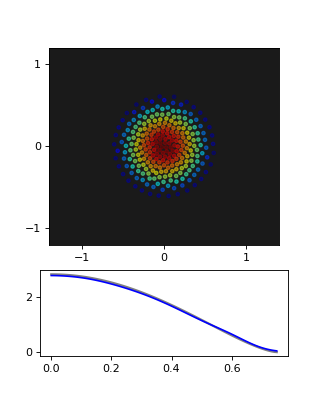
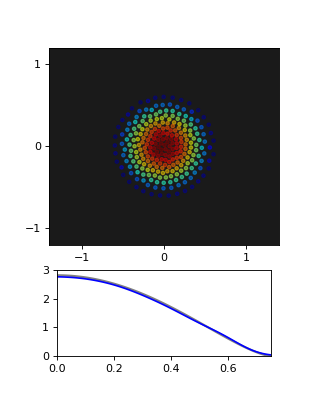
finalized 01_toystar.py

diff --git a/01_toystar.py b/01_toystar.py
@@ -25,11 +25,8 @@ viscosity = 1 # damping
 lmbda_2d = 2*eq_state_const*np.pi**(-1/polytropic_idx) * ( ( (M*(1+polytropic_idx)) / (R**2) )**(1 + 1/polytropic_idx) ) / M
 lmbda_3d = 2*eq_state_const*(1+polytropic_idx)*np.pi**(-3/(2*polytropic_idx)) * (M*gamma(5/2+polytropic_idx)/R**3/gamma(1+polytropic_idx))**(1/polytropic_idx) / R**2
 
-#t = 0      # current time of the simulation
 tEnd = 12
 dt = 0.005
-
-#dt = 0.005#0.01
 
 configs = [
     (2, 16, lmbda_2d),
@@ -73,10 +70,14 @@ for spatial_dim, particle_dim, lmbda in configs:
         update_pos_vel_halfstep[bpg, tpb](d_pos, d_vel, d_dV, dt)
         calc_density[bpg, tpb](d_pos[:,:,0,:], particle_mass, smoothing_length, d_rho)
 
-        get_new_smoothing_lengths(d_pos[:,:,0,:], x, y, particle_mass, 3.0, tpb, bpg, n_iter=30)
+        get_new_smoothing_lengths(d_pos[:,:,0,:], x, y, particle_mass, 3.0, tpb, bpg, n_iter=15)
         smoothing_length = x[:,:,1]
-        smoothing_length_y_cpu = y[:,:,1].copy_to_host()
-        assert np.all(np.abs(smoothing_length_y_cpu) < 0.001 * R)
+        #smoothing_length_y_cpu = y[:,:,1].copy_to_host()
+        #assert np.all(np.abs(smoothing_length_y_cpu) < 0.001 * R)
+
+        x_cpu = x.copy_to_host()
+        delta_ratio = np.max(np.abs(x_cpu[:,:,2] - x_cpu[:,:,0]) / h_init)
+        assert np.all(delta_ratio < 0.02 * h_init)
         
 
         calc_dv_toystar[bpg, tpb](d_pos[:,:,0,:], d_vel[:,:,0,:], particle_mass, smoothing_length, eq_state_const, polytropic_idx, lmbda, viscosity, d_rho, d_dV)
@@ -94,5 +95,10 @@ for spatial_dim, particle_dim, lmbda in configs:
         '''
         imgs.append(get_img(all_pos[:,:,i], all_rho[:,i], R, polytropic_idx, eq_state_const, h_init, particle_mass, lmbda))
 
-    path = os.path.join(os.path.dirname(__file__), f'figures/01_toystar/toystar_{spatial_dim}d.gif')
-    imgs[0].save(path, save_all=True, append_images=imgs[1:], duration=20, loop=0)
+    gif_path = os.path.join(os.path.dirname(__file__), f'figures/01_toystar/toystar_{spatial_dim}d.gif')
+    imgs[0].save(gif_path, save_all=True, append_images=imgs[1:], duration=20, loop=0)
+
+    png_path = os.path.join(os.path.dirname(__file__), f'figures/01_toystar/toystar_{spatial_dim}d.png')
+    fig = plot_frame(all_pos[:,:,-1], all_rho[:,-1], R, polytropic_idx, eq_state_const, h_init, particle_mass, lmbda, colormap='jet')
+    plt.savefig(png_path)
+    plt.close(fig)

diff --git a/pmocz_functions.py b/pmocz_functions.py
@@ -17,7 +17,7 @@ def get_img(pos, dens, R, polytropic_idx, eq_state_const, h, particle_mass, lmbd
     return img
 
 
-def plot_frame(pos, dens, R, polytropic_idx, eq_state_const, h, particle_mass, lmbda):#, fig_name):
+def plot_frame(pos, dens, R, polytropic_idx, eq_state_const, h, particle_mass, lmbda, colormap='autumn'):
     rr = np.zeros((100,pos.shape[1]))
     rlin = np.linspace(0,R,100)
     rr[:,0] =rlin
@@ -40,7 +40,8 @@ def plot_frame(pos, dens, R, polytropic_idx, eq_state_const, h, particle_mass, l
     #cval = np.minimum((cval-3)/3,1).flatten()
 
     #plt.scatter(pos[:,0],pos[:,1], c=cval, cmap=plt.cm.jet, s=10, alpha=0.5)
-    plt.scatter(pos[:,0],pos[:,1], c=cval, cmap=plt.cm.autumn, s=10, alpha=0.5)
+    cmap = plt.cm.autumn if colormap == 'autumn' else plt.cm.jet
+    plt.scatter(pos[:,0],pos[:,1], c=cval, cmap=cmap, s=10, alpha=0.5)
     ax1.set(xlim=(-1.4 * (R * 4/3), 1.4 * (R * 4/3)), ylim=(-1.2 * (R * 4/3), 1.2 * (R * 4/3)))
     ax1.set_aspect('equal', 'box')
     ax1.set_xticks([-(R * 4/3),0,(R * 4/3)])
@@ -50,8 +51,8 @@ def plot_frame(pos, dens, R, polytropic_idx, eq_state_const, h, particle_mass, l
                 
     plt.sca(ax2)
     plt.cla()
-    #ax2.set(xlim=(0, R), ylim=(0, 3e9))
-    #ax2.set_aspect(0.1)
+    ax2.set(xlim=(0, R), ylim=(0, 3 * R*4/3))
+    ax2.set_aspect(0.1)
     plt.plot(rlin, rho_analytic, color='gray', linewidth=2)
     rho_radial = density( pos, h, particle_mass, pos.shape[1], rr=rr )
     plt.plot(rlin, rho_radial, color='blue')

diff --git a/tests.py b/tests.py
@@ -214,10 +214,6 @@ def test_zeta(setup_data, spatial_dim):
         zeta_cpu = zeta.copy_to_host()
         sign_test_vals[:,:,i] = zeta_cpu
 
-    #plt.scatter(all_hvals[:,19,21], sign_test_vals[19, 21])
-    #plt.show()
-
-
     asign = np.sign(sign_test_vals)
     sign_change = ((np.roll(asign, 1) - asign) != 0).astype(int)[:,:,1:]
 
@@ -240,13 +236,17 @@ def test_newton_method(setup_data, spatial_dim):
 
     all_hvals = np.linspace(x[:,:,0], x[:,:,2], n_samples).astype('f4')
 
-
     pos_gpu = pos_2d if spatial_dim == 2 else pos_3d
     
     get_new_smoothing_lengths(pos_gpu, x, y, particle_mass, kernel_radius, tpb, bpg, n_iter=30)
 
-    midpt_y_cpu = y.copy_to_host()[:,:,1]
-    midpt_x_cpu = x.copy_to_host()[:,:,1]
+    #midpt_y_cpu = y.copy_to_host()[:,:,1]
+    #midpt_x_cpu = x.copy_to_host()[:,:,1]
+
+    x_cpu = x.copy_to_host()
+
+    delta_ratio = np.max(np.abs(x_cpu[:,:,2] - x_cpu[:,:,0]) / R)
+    assert np.all(delta_ratio < 0.001 * R) # error as a percentage of radius
 
     '''
     sign_test_vals = np.zeros((particle_dim, particle_dim, n_samples), dtype='f4')
@@ -269,5 +269,3 @@ def test_newton_method(setup_data, spatial_dim):
     ax1.scatter([midpt_x_cpu[problem_idx]], [midpt_y_cpu[problem_idx]])
     plt.show()
     '''
-
-    assert np.all(np.abs(midpt_y_cpu) < R * 0.001) # error as a percentage of radius
